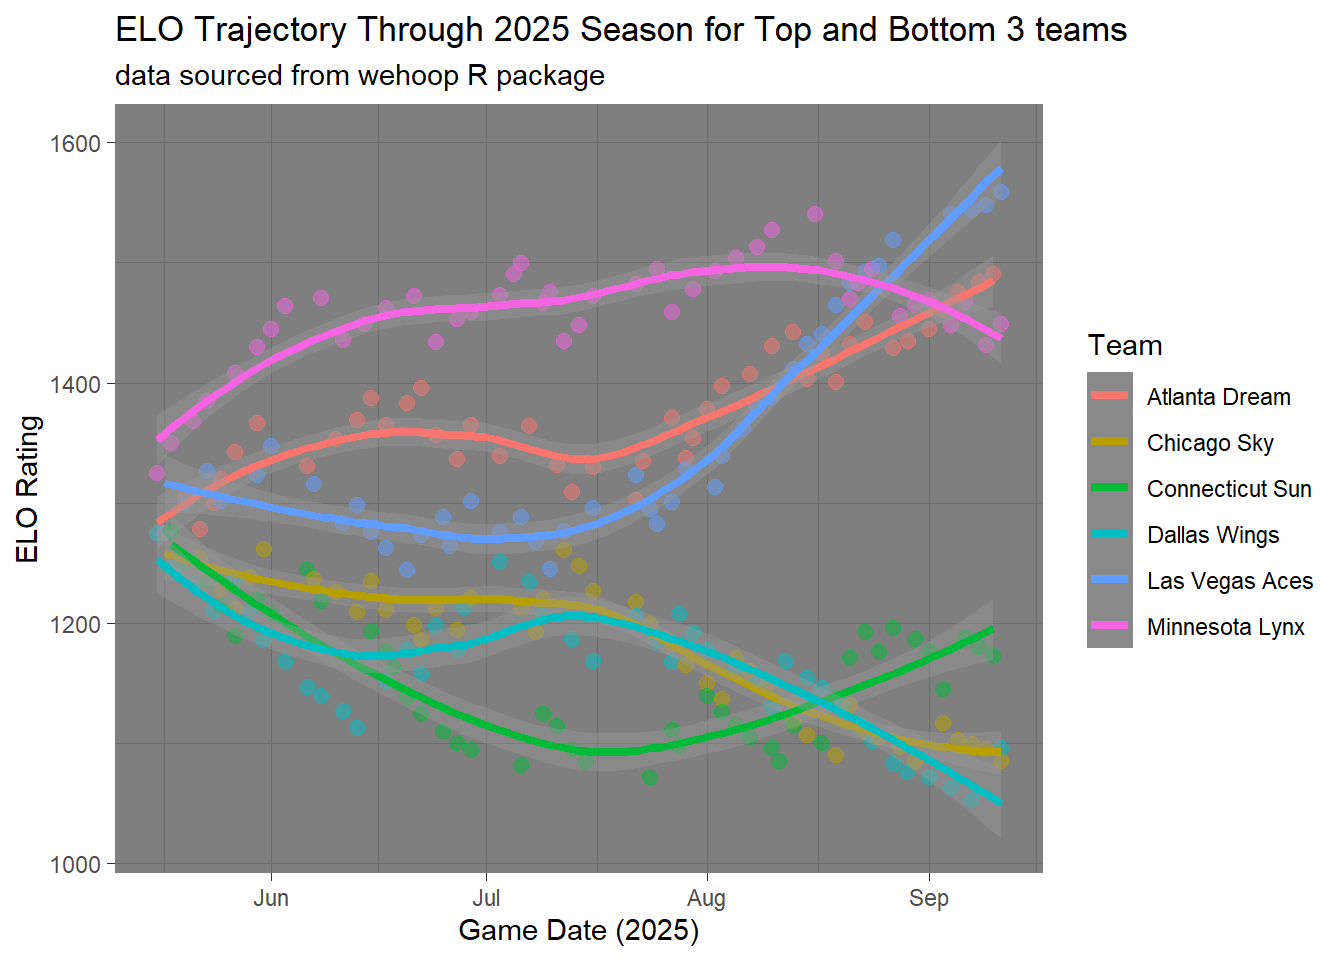
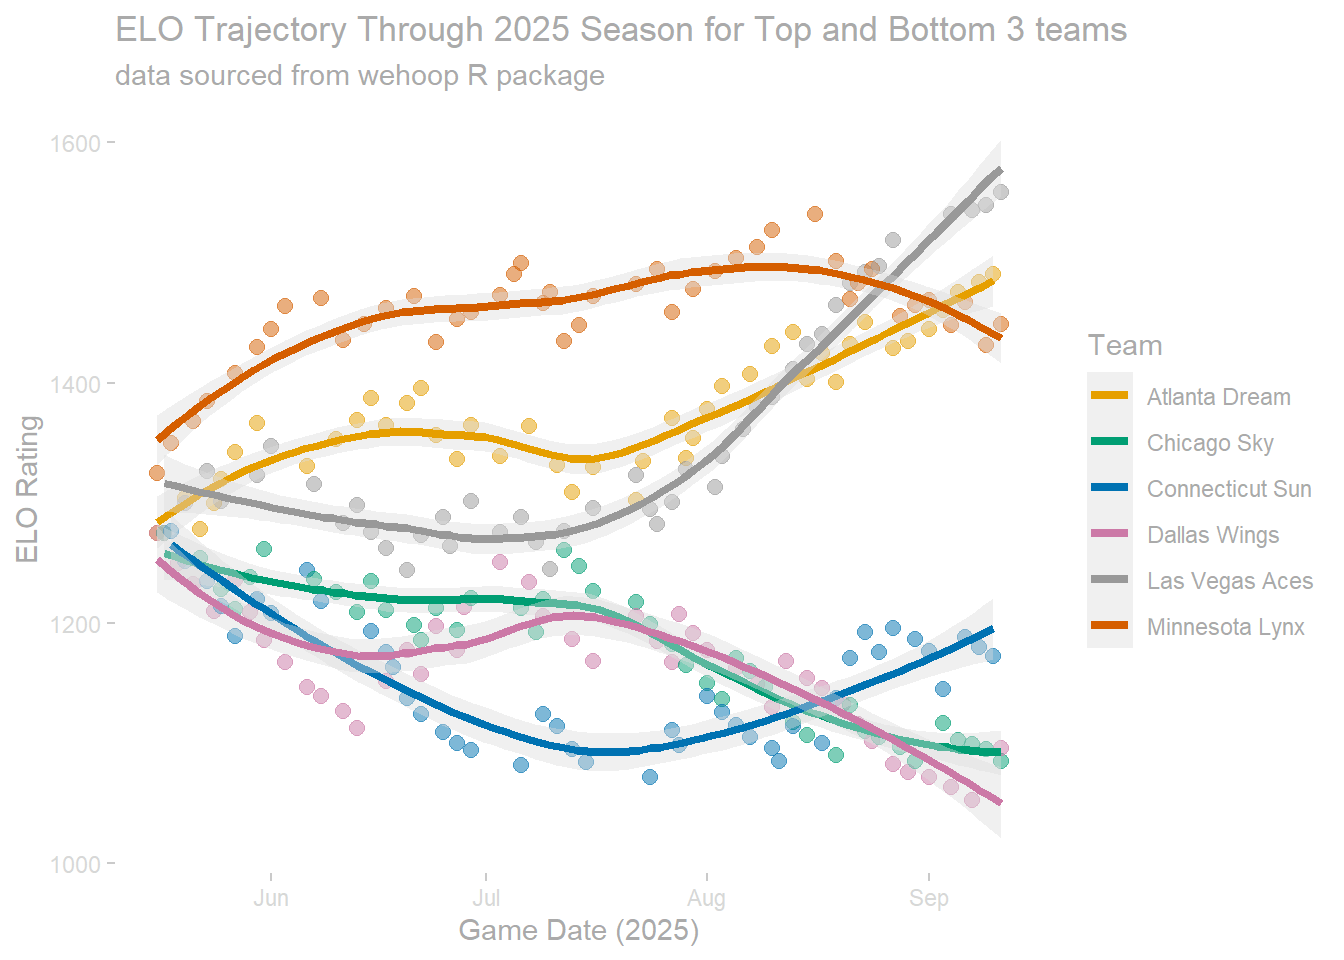
upset viz + formatting plots

diff --git a/Project1-KCH-WNBA_ELO_Ratings-Codebase.html b/Project1-KCH-WNBA_ELO_Ratings-Codebase.html
@@ -325,7 +325,7 @@ pre > code.sourceCode > span > a:first-child::before { text-decoration: underlin
 <span id="cb3-4"><a href="#cb3-4" aria-hidden="true" tabindex="-1"></a>         game_date, </span>
 <span id="cb3-5"><a href="#cb3-5" aria-hidden="true" tabindex="-1"></a>         <span class="at">away_team_id =</span> team_id, </span>
 <span id="cb3-6"><a href="#cb3-6" aria-hidden="true" tabindex="-1"></a>         <span class="at">away_team_display_name =</span> team_display_name,</span>
-<span id="cb3-7"><a href="#cb3-7" aria-hidden="true" tabindex="-1"></a>         <span class="at">away_team_winner =</span> team_winner,</span>
+<span id="cb3-7"><a href="#cb3-7" aria-hidden="true" tabindex="-1"></a>         <span class="at">away_team_winner =</span> team_winner</span>
 <span id="cb3-8"><a href="#cb3-8" aria-hidden="true" tabindex="-1"></a>         )</span>
 <span id="cb3-9"><a href="#cb3-9" aria-hidden="true" tabindex="-1"></a></span>
 <span id="cb3-10"><a href="#cb3-10" aria-hidden="true" tabindex="-1"></a>home_df <span class="ot">&lt;-</span> df <span class="sc">|&gt;</span></span>
@@ -337,7 +337,7 @@ pre > code.sourceCode > span > a:first-child::before { text-decoration: underlin
 <span id="cb3-16"><a href="#cb3-16" aria-hidden="true" tabindex="-1"></a>  )</span></code></pre></div><button title="Copy to Clipboard" class="code-copy-button"><i class="bi"></i></button></div>
 </div>
 <p>The two split data frames are then rejoined around a common <code>game_id</code> key. Inspecting the results revealed that “TEAM CLARK” and “TEAM COLLIER” are present in the home team display names and away team display names, respectively. This likely represents the All-Star Game match-up, and this game can be removed from the data frame by filtering in all teams with display names that are neither “TEAM CLARK” nor “TEAM COLLIER”. The success of this step is confirmed via the <code>unique()</code> function.</p>
-<p>In an initial run of this pipeline, two teams finished the season with 45 games played, compared to the overwhelming mode of 44 total games played. The Minnesota Lynx and the Indiana Fever had an extra game compared to other teams. No duplicate game ids were found. Instead, a data discrepancy in the ESPN source data was identified: a Commissioner’s Cup game (specifically the championship game betwen the Minnesota Lynx and Indian Fever) was included in the regular season data set.</p>
+<p>In an initial run of this pipeline, two teams finished the season with 45 games played, compared to the overwhelming mode of 44 total games played. The Minnesota Lynx and the Indiana Fever had an extra game compared to other teams. No duplicate game ids were found. Instead, a data discrepancy in the ESPN source data was identified: a Commissioner’s Cup game (specifically the championship game betwen the Minnesota Lynx and Indian Fever) was included in the regular season data set. This game was removed from the data frame by filtering in all games with a <code>game_id</code> not equal to that game’s <code>game_id</code>.</p>
 <div class="cell">
 <div class="code-copy-outer-scaffold"><div class="sourceCode cell-code" id="cb4"><pre class="sourceCode r code-with-copy"><code class="sourceCode r"><span id="cb4-1"><a href="#cb4-1" aria-hidden="true" tabindex="-1"></a>full_df <span class="ot">&lt;-</span> <span class="fu">inner_join</span>(away_df, home_df, <span class="at">by =</span> <span class="st">"game_id"</span>) <span class="sc">|&gt;</span></span>
 <span id="cb4-2"><a href="#cb4-2" aria-hidden="true" tabindex="-1"></a>  <span class="fu">mutate</span>(<span class="at">home_win =</span> <span class="fu">if_else</span>(home_team_winner <span class="sc">==</span> <span class="cn">TRUE</span>, <span class="dv">1</span>, <span class="dv">0</span>)) <span class="sc">|&gt;</span></span>
@@ -466,8 +466,7 @@ pre > code.sourceCode > span > a:first-child::before { text-decoration: underlin
 <span id="cb9-6"><a href="#cb9-6" aria-hidden="true" tabindex="-1"></a>       <span class="at">subtitle =</span> <span class="st">"data sourced from wehoop R package"</span>, </span>
 <span id="cb9-7"><a href="#cb9-7" aria-hidden="true" tabindex="-1"></a>       <span class="at">y =</span> <span class="st">"Total Wins"</span>, </span>
 <span id="cb9-8"><a href="#cb9-8" aria-hidden="true" tabindex="-1"></a>       <span class="at">x =</span> <span class="st">"Final ELO Rating"</span></span>
-<span id="cb9-9"><a href="#cb9-9" aria-hidden="true" tabindex="-1"></a>       ) <span class="sc">+</span></span>
-<span id="cb9-10"><a href="#cb9-10" aria-hidden="true" tabindex="-1"></a>  <span class="fu">theme_dark</span>()</span></code></pre></div><button title="Copy to Clipboard" class="code-copy-button"><i class="bi"></i></button></div>
+<span id="cb9-9"><a href="#cb9-9" aria-hidden="true" tabindex="-1"></a>       )</span></code></pre></div><button title="Copy to Clipboard" class="code-copy-button"><i class="bi"></i></button></div>
 <div class="cell-output-display">
 <div>
 <figure class="figure">
@@ -494,8 +493,7 @@ pre > code.sourceCode > span > a:first-child::before { text-decoration: underlin
 <span id="cb10-10"><a href="#cb10-10" aria-hidden="true" tabindex="-1"></a>  <span class="fu">ggplot</span>(<span class="fu">aes</span>(<span class="at">x=</span>game_date, <span class="at">y=</span>team_elo_post, <span class="at">color =</span> team)) <span class="sc">+</span></span>
 <span id="cb10-11"><a href="#cb10-11" aria-hidden="true" tabindex="-1"></a>  <span class="fu">geom_point</span>(<span class="at">alpha =</span> <span class="fl">0.5</span>, <span class="at">show.legend =</span> <span class="cn">FALSE</span>, <span class="at">size =</span> <span class="fl">2.5</span>) <span class="sc">+</span></span>
 <span id="cb10-12"><a href="#cb10-12" aria-hidden="true" tabindex="-1"></a>  <span class="fu">geom_smooth</span>(<span class="at">method =</span> <span class="st">'loess'</span>, <span class="at">formula =</span> <span class="st">'y~x'</span>, <span class="at">show.legend =</span> <span class="cn">TRUE</span>, <span class="at">linewidth =</span> <span class="fl">1.5</span>) <span class="sc">+</span></span>
-<span id="cb10-13"><a href="#cb10-13" aria-hidden="true" tabindex="-1"></a>  <span class="fu">labs</span>(<span class="at">title =</span> <span class="st">"ELO Trajectory Through 2025 Season for Top and Bottom 3 teams"</span>, <span class="at">subtitle =</span> <span class="st">"data sourced from wehoop R package"</span>, <span class="at">y=</span> <span class="st">"ELO Rating"</span>, <span class="at">x=</span> <span class="st">"Game Date (2025)"</span>, <span class="at">color =</span> <span class="st">"Team"</span>) <span class="sc">+</span></span>
-<span id="cb10-14"><a href="#cb10-14" aria-hidden="true" tabindex="-1"></a>  <span class="fu">theme_dark</span>()</span></code></pre></div><button title="Copy to Clipboard" class="code-copy-button"><i class="bi"></i></button></div>
+<span id="cb10-13"><a href="#cb10-13" aria-hidden="true" tabindex="-1"></a>  <span class="fu">labs</span>(<span class="at">title =</span> <span class="st">"ELO Trajectory Through 2025 Season for Top and Bottom 3 teams"</span>, <span class="at">subtitle =</span> <span class="st">"data sourced from wehoop R package"</span>, <span class="at">y=</span> <span class="st">"ELO Rating"</span>, <span class="at">x=</span> <span class="st">"Game Date (2025)"</span>, <span class="at">color =</span> <span class="st">"Team"</span>)</span></code></pre></div><button title="Copy to Clipboard" class="code-copy-button"><i class="bi"></i></button></div>
 <div class="cell-output-display">
 <div>
 <figure class="figure">
@@ -513,8 +511,7 @@ pre > code.sourceCode > span > a:first-child::before { text-decoration: underlin
 <div class="code-copy-outer-scaffold"><div class="sourceCode cell-code" id="cb11"><pre class="sourceCode r code-with-copy"><code class="sourceCode r"><span id="cb11-1"><a href="#cb11-1" aria-hidden="true" tabindex="-1"></a>summary_2025 <span class="sc">|&gt;</span></span>
 <span id="cb11-2"><a href="#cb11-2" aria-hidden="true" tabindex="-1"></a>  <span class="fu">ggplot</span>(<span class="fu">aes</span>(<span class="at">x=</span>avg_opp_elo, <span class="at">y=</span>total_losses)) <span class="sc">+</span></span>
 <span id="cb11-3"><a href="#cb11-3" aria-hidden="true" tabindex="-1"></a>  <span class="fu">geom_point</span>(<span class="at">alpha=</span><span class="fl">0.8</span>, <span class="at">show.legend =</span> <span class="cn">FALSE</span>) <span class="sc">+</span></span>
-<span id="cb11-4"><a href="#cb11-4" aria-hidden="true" tabindex="-1"></a>  <span class="fu">geom_smooth</span>(<span class="at">method =</span> <span class="st">'lm'</span>, <span class="at">formula =</span> <span class="st">'y ~ x'</span>, <span class="at">show.legend =</span> <span class="cn">FALSE</span>) <span class="sc">+</span></span>
-<span id="cb11-5"><a href="#cb11-5" aria-hidden="true" tabindex="-1"></a>  <span class="fu">theme_dark</span>()</span></code></pre></div><button title="Copy to Clipboard" class="code-copy-button"><i class="bi"></i></button></div>
+<span id="cb11-4"><a href="#cb11-4" aria-hidden="true" tabindex="-1"></a>  <span class="fu">geom_smooth</span>(<span class="at">method =</span> <span class="st">'lm'</span>, <span class="at">formula =</span> <span class="st">'y ~ x'</span>, <span class="at">show.legend =</span> <span class="cn">FALSE</span>)</span></code></pre></div><button title="Copy to Clipboard" class="code-copy-button"><i class="bi"></i></button></div>
 <div class="cell-output-display">
 <div>
 <figure class="figure">
@@ -534,8 +531,7 @@ pre > code.sourceCode > span > a:first-child::before { text-decoration: underlin
 <span id="cb12-3"><a href="#cb12-3" aria-hidden="true" tabindex="-1"></a>summary_2025 <span class="sc">|&gt;</span></span>
 <span id="cb12-4"><a href="#cb12-4" aria-hidden="true" tabindex="-1"></a>  <span class="fu">ggplot</span>(<span class="fu">aes</span>(<span class="at">x=</span>avg_opp_elo, <span class="at">y=</span>final_elo)) <span class="sc">+</span></span>
 <span id="cb12-5"><a href="#cb12-5" aria-hidden="true" tabindex="-1"></a>  <span class="fu">geom_point</span>(<span class="at">show.legend =</span> <span class="cn">FALSE</span>) <span class="sc">+</span></span>
-<span id="cb12-6"><a href="#cb12-6" aria-hidden="true" tabindex="-1"></a>  <span class="fu">geom_smooth</span>(<span class="at">method =</span> <span class="st">'lm'</span>, <span class="at">formula =</span> <span class="st">'y ~ x'</span>, <span class="at">se =</span> <span class="cn">TRUE</span>, <span class="at">show.legend =</span> <span class="cn">FALSE</span>) <span class="sc">+</span></span>
-<span id="cb12-7"><a href="#cb12-7" aria-hidden="true" tabindex="-1"></a>  <span class="fu">theme_dark</span>()</span></code></pre></div><button title="Copy to Clipboard" class="code-copy-button"><i class="bi"></i></button></div>
+<span id="cb12-6"><a href="#cb12-6" aria-hidden="true" tabindex="-1"></a>  <span class="fu">geom_smooth</span>(<span class="at">method =</span> <span class="st">'lm'</span>, <span class="at">formula =</span> <span class="st">'y ~ x'</span>, <span class="at">se =</span> <span class="cn">TRUE</span>, <span class="at">show.legend =</span> <span class="cn">FALSE</span>)</span></code></pre></div><button title="Copy to Clipboard" class="code-copy-button"><i class="bi"></i></button></div>
 <div class="cell-output-display">
 <div>
 <figure class="figure">
@@ -554,24 +550,10 @@ pre > code.sourceCode > span > a:first-child::before { text-decoration: underlin
 <h2 class="anchored" data-anchor-id="exporting-to-csv">Exporting to csv</h2>
 <p>The <code>summary_2025</code> data frame can be exported as a csv file using the <code>readr</code> package’s <code>write_csv()</code> function. The CSV can be validated by re-importing it as a new data frame and knitting a table to display the CSV file’s contents.</p>
 <div class="cell">
-<div class="code-copy-outer-scaffold"><div class="sourceCode cell-code" id="cb13"><pre class="sourceCode r code-with-copy"><code class="sourceCode r"><span id="cb13-1"><a href="#cb13-1" aria-hidden="true" tabindex="-1"></a><span class="co">#| echo:  true</span></span>
-<span id="cb13-2"><a href="#cb13-2" aria-hidden="true" tabindex="-1"></a><span class="co">#| message:  false</span></span>
-<span id="cb13-3"><a href="#cb13-3" aria-hidden="true" tabindex="-1"></a><span class="co">#| warning:  false</span></span>
-<span id="cb13-4"><a href="#cb13-4" aria-hidden="true" tabindex="-1"></a></span>
-<span id="cb13-5"><a href="#cb13-5" aria-hidden="true" tabindex="-1"></a><span class="fu">write_csv</span>(summary_2025, <span class="st">"wnba_elo_summary_2025.csv"</span>)</span>
-<span id="cb13-6"><a href="#cb13-6" aria-hidden="true" tabindex="-1"></a></span>
-<span id="cb13-7"><a href="#cb13-7" aria-hidden="true" tabindex="-1"></a>check_df <span class="ot">&lt;-</span> <span class="fu">read_csv</span>(<span class="st">"wnba_elo_summary_2025.csv"</span>)</span></code></pre></div><button title="Copy to Clipboard" class="code-copy-button"><i class="bi"></i></button></div>
-<div class="cell-output cell-output-stderr">
-<pre><code>Rows: 13 Columns: 6
-── Column specification ────────────────────────────────────────────────────────
-Delimiter: ","
-chr (1): team
-dbl (5): total_games, total_wins, total_losses, final_elo, avg_opp_elo
-
-ℹ Use `spec()` to retrieve the full column specification for this data.
-ℹ Specify the column types or set `show_col_types = FALSE` to quiet this message.</code></pre>
-</div>
-<div class="code-copy-outer-scaffold"><div class="sourceCode cell-code" id="cb15"><pre class="sourceCode r code-with-copy"><code class="sourceCode r"><span id="cb15-1"><a href="#cb15-1" aria-hidden="true" tabindex="-1"></a>knitr<span class="sc">::</span><span class="fu">kable</span>(check_df, <span class="at">caption =</span> <span class="st">"Validated 2025 WNBA Elo Summary Output"</span>)</span></code></pre></div><button title="Copy to Clipboard" class="code-copy-button"><i class="bi"></i></button></div>
+<div class="code-copy-outer-scaffold"><div class="sourceCode cell-code" id="cb13"><pre class="sourceCode r code-with-copy"><code class="sourceCode r"><span id="cb13-1"><a href="#cb13-1" aria-hidden="true" tabindex="-1"></a><span class="fu">write_csv</span>(summary_2025, <span class="st">"wnba_elo_summary_2025.csv"</span>)</span>
+<span id="cb13-2"><a href="#cb13-2" aria-hidden="true" tabindex="-1"></a></span>
+<span id="cb13-3"><a href="#cb13-3" aria-hidden="true" tabindex="-1"></a>check_df <span class="ot">&lt;-</span> <span class="fu">read_csv</span>(<span class="st">"wnba_elo_summary_2025.csv"</span>)</span>
+<span id="cb13-4"><a href="#cb13-4" aria-hidden="true" tabindex="-1"></a>knitr<span class="sc">::</span><span class="fu">kable</span>(check_df, <span class="at">caption =</span> <span class="st">"Validated 2025 WNBA Elo Summary Output"</span>)</span></code></pre></div><button title="Copy to Clipboard" class="code-copy-button"><i class="bi"></i></button></div>
 <div class="cell-output-display">
 <table class="caption-top table table-sm table-striped small">
 <caption>Validated 2025 WNBA Elo Summary Output</caption>
@@ -700,39 +682,6 @@ dbl (5): total_games, total_wins, total_losses, final_elo, avg_opp_elo
 </tr>
 </tbody>
 </table>
-</div>
-</div>
-<div class="cell">
-<div class="code-copy-outer-scaffold"><div class="sourceCode cell-code" id="cb16"><pre class="sourceCode r code-with-copy"><code class="sourceCode r"><span id="cb16-1"><a href="#cb16-1" aria-hidden="true" tabindex="-1"></a><span class="co">#|echo: false</span></span>
-<span id="cb16-2"><a href="#cb16-2" aria-hidden="true" tabindex="-1"></a><span class="co">#|warning: false</span></span>
-<span id="cb16-3"><a href="#cb16-3" aria-hidden="true" tabindex="-1"></a><span class="co">#|message: false</span></span>
-<span id="cb16-4"><a href="#cb16-4" aria-hidden="true" tabindex="-1"></a></span>
-<span id="cb16-5"><a href="#cb16-5" aria-hidden="true" tabindex="-1"></a>full_df <span class="sc">|&gt;</span> </span>
-<span id="cb16-6"><a href="#cb16-6" aria-hidden="true" tabindex="-1"></a>  <span class="fu">count</span>(game_id) <span class="sc">|&gt;</span> </span>
-<span id="cb16-7"><a href="#cb16-7" aria-hidden="true" tabindex="-1"></a>  <span class="fu">filter</span>(n <span class="sc">&gt;</span> <span class="dv">1</span>)</span></code></pre></div><button title="Copy to Clipboard" class="code-copy-button"><i class="bi"></i></button></div>
-<div class="cell-output cell-output-stdout">
-<pre><code># A tibble: 0 × 3
-# Groups:   game_id, away_team_id [0]
-# ℹ 3 variables: game_id &lt;int&gt;, away_team_id &lt;int&gt;, n &lt;int&gt;</code></pre>
-</div>
-<div class="code-copy-outer-scaffold"><div class="sourceCode cell-code" id="cb18"><pre class="sourceCode r code-with-copy"><code class="sourceCode r"><span id="cb18-1"><a href="#cb18-1" aria-hidden="true" tabindex="-1"></a>full_df <span class="sc">|&gt;</span></span>
-<span id="cb18-2"><a href="#cb18-2" aria-hidden="true" tabindex="-1"></a>  <span class="fu">filter</span>(</span>
-<span id="cb18-3"><a href="#cb18-3" aria-hidden="true" tabindex="-1"></a>    (home_team_display_name <span class="sc">==</span> <span class="st">"Minnesota Lynx"</span> <span class="sc">&amp;</span> away_team_display_name <span class="sc">==</span> <span class="st">"Indiana Fever"</span>) <span class="sc">|</span></span>
-<span id="cb18-4"><a href="#cb18-4" aria-hidden="true" tabindex="-1"></a>      (home_team_display_name <span class="sc">==</span> <span class="st">"Indiana Fever"</span> <span class="sc">&amp;</span> away_team_display_name <span class="sc">==</span> <span class="st">"Minnesota Lynx"</span>)</span>
-<span id="cb18-5"><a href="#cb18-5" aria-hidden="true" tabindex="-1"></a>  ) <span class="sc">|&gt;</span></span>
-<span id="cb18-6"><a href="#cb18-6" aria-hidden="true" tabindex="-1"></a>  <span class="fu">select</span>(game_id, game_date, home_team_display_name, away_team_display_name, home_win)</span></code></pre></div><button title="Copy to Clipboard" class="code-copy-button"><i class="bi"></i></button></div>
-<div class="cell-output cell-output-stderr">
-<pre><code>Adding missing grouping variables: `away_team_id`</code></pre>
-</div>
-<div class="cell-output cell-output-stdout">
-<pre><code># A tibble: 3 × 6
-# Groups:   game_id, away_team_id [3]
-  away_team_id  game_id game_date  home_team_display_name away_team_display_name
-         &lt;int&gt;    &lt;int&gt; &lt;date&gt;     &lt;chr&gt;                  &lt;chr&gt;                 
-1            8   4.02e8 2025-08-22 Indiana Fever          Minnesota Lynx        
-2            5   4.02e8 2025-08-24 Minnesota Lynx         Indiana Fever         
-3            8   4.02e8 2025-09-09 Indiana Fever          Minnesota Lynx        
-# ℹ 1 more variable: home_win &lt;dbl&gt;</code></pre>
 </div>
 </div>
 </section>
